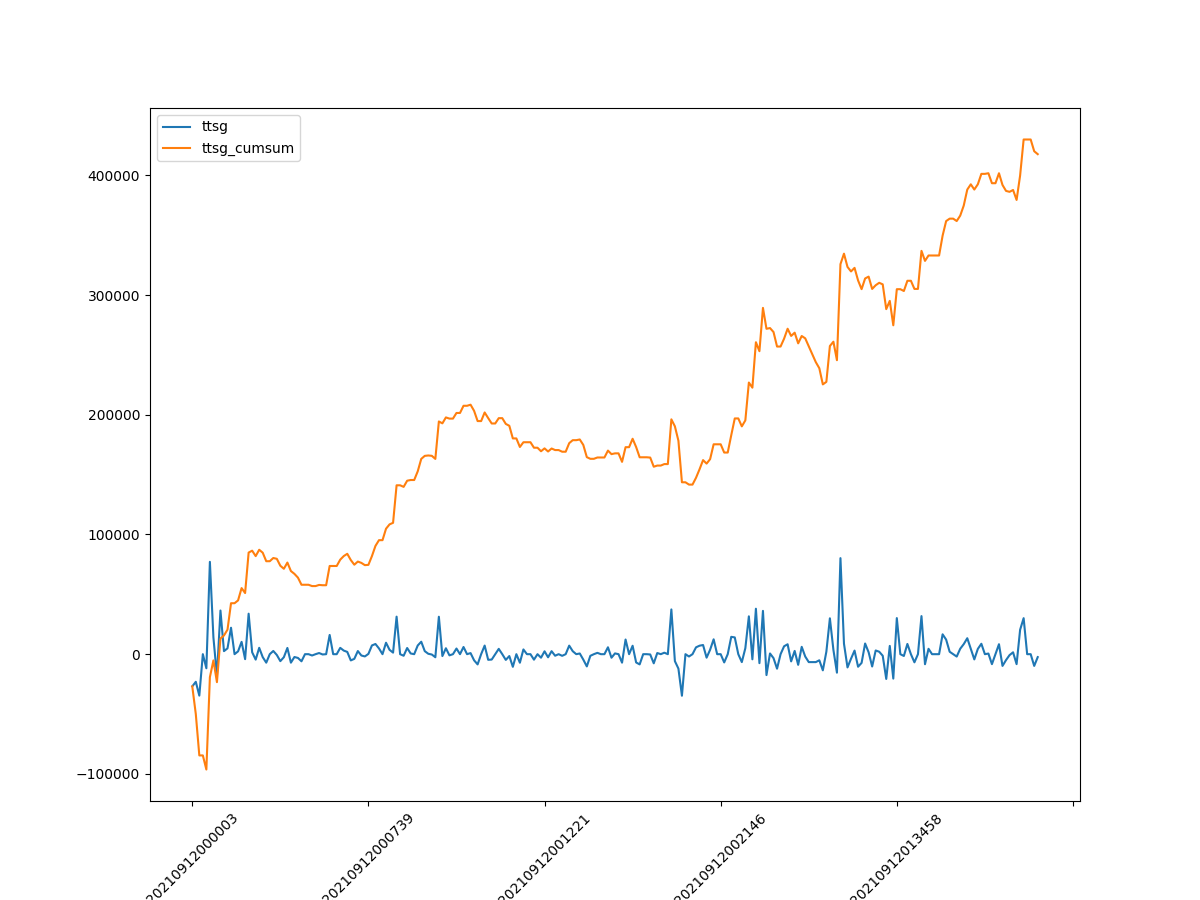
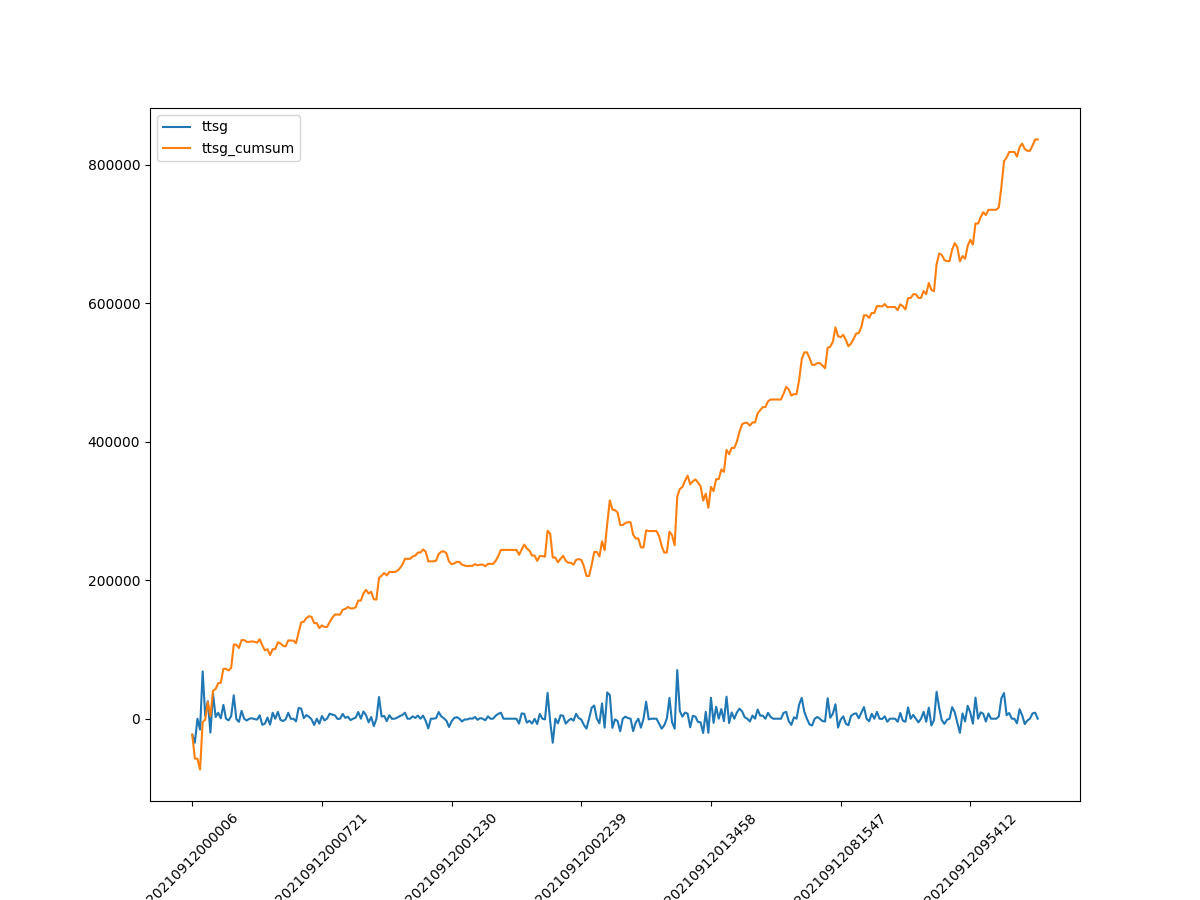
백테스터 슬리피지 최소화

diff --git a/backtester/backtester_coin.py b/backtester/backtester_coin.py
@@ -98,10 +98,18 @@ class BackTesterCoin:
         return True
 
     def Buy(self):
-        self.buycount = int(self.batting / self.df['trade_price'][self.index])
-        if self.buycount == 0:
-            return
-        self.buyprice = self.df['trade_price'][self.index]
+        if self.df['ask_price_1'][self.index] * self.df['ask_size_1'][self.index] >= self.batting:
+            s1hg = self.df['ask_price_1'][self.index]
+            self.buycount = int(self.batting / s1hg)
+            self.buyprice = s1hg
+        else:
+            s1hg = self.df['ask_price_1'][self.index]
+            s1jr = self.df['ask_size_1'][self.index]
+            s2hg = self.df['ask_price_2'][self.index]
+            ng = self.batting - s1hg * s1jr
+            s2jc = int(ng / s2hg)
+            self.buycount = s1jr + s2jc
+            self.buyprice = round((s1hg * s1jr + s2hg * s2jc) / self.buycount, 2)
         self.hold = True
         self.csell = 0
 
@@ -115,7 +123,14 @@ class BackTesterCoin:
         return False
 
     def Sell(self):
-        self.sellprice = self.df['trade_price'][self.index]
+        if self.df['bid_price_1'][self.index] >= self.buycount:
+            self.sellprice = self.df['bid_price_1'][self.index]
+        else:
+            b1hg = self.df['bid_price_1'][self.index]
+            b1jr = self.df['bid_size_1'][self.index]
+            b2hg = self.df['bid_price_2'][self.index]
+            nc = self.buycount - b1jr
+            self.sellprice = round((b1hg * b1jr + b2hg * nc) / self.buycount, 2)
         self.hold = False
         self.CalculationEyun()
 
@@ -281,12 +296,12 @@ if __name__ == "__main__":
     start = now()
 
     gap_ch = [1, 10, 1, 0.1]
-    gap_sm = [0, 1000000, 100000, 10000]
+    gap_sm = [0, 100000000, 10000000, 1000000]
     avgtime = [30, 600, 30, 30]
     selltime = [1, 5, 1, 1]
     chlow = [0, 150, 10, 1]
-    dmlow = [0, 10000000, 1000000, 100000]
-    phigh = [25., 15., -1, -1]
+    dmlow = [0, 10000000000, 1000000000, 100000000]
+    phigh = [100., 10., -10, -1]
     hlmplow = [0., 5., 1, 0.1]
     num = [gap_ch, gap_sm, avgtime, selltime, chlow, dmlow, phigh, hlmplow]
 
